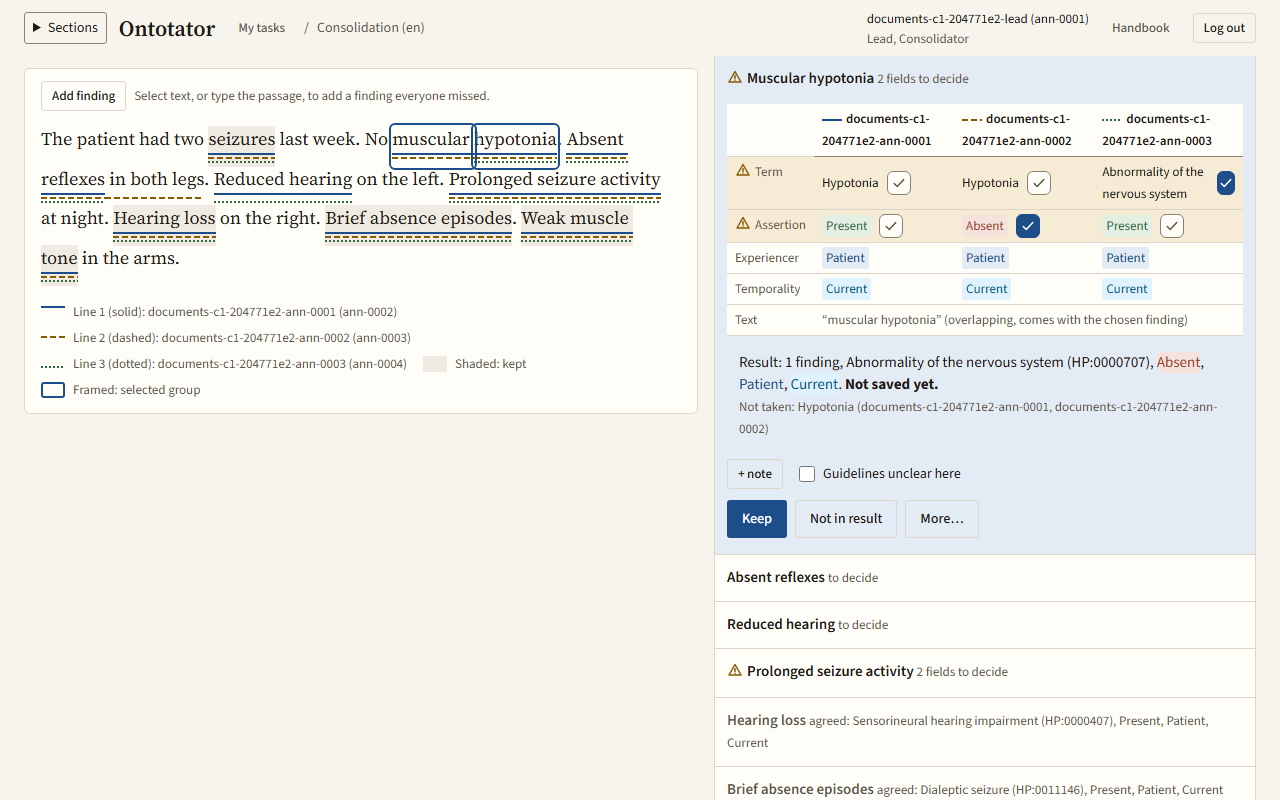
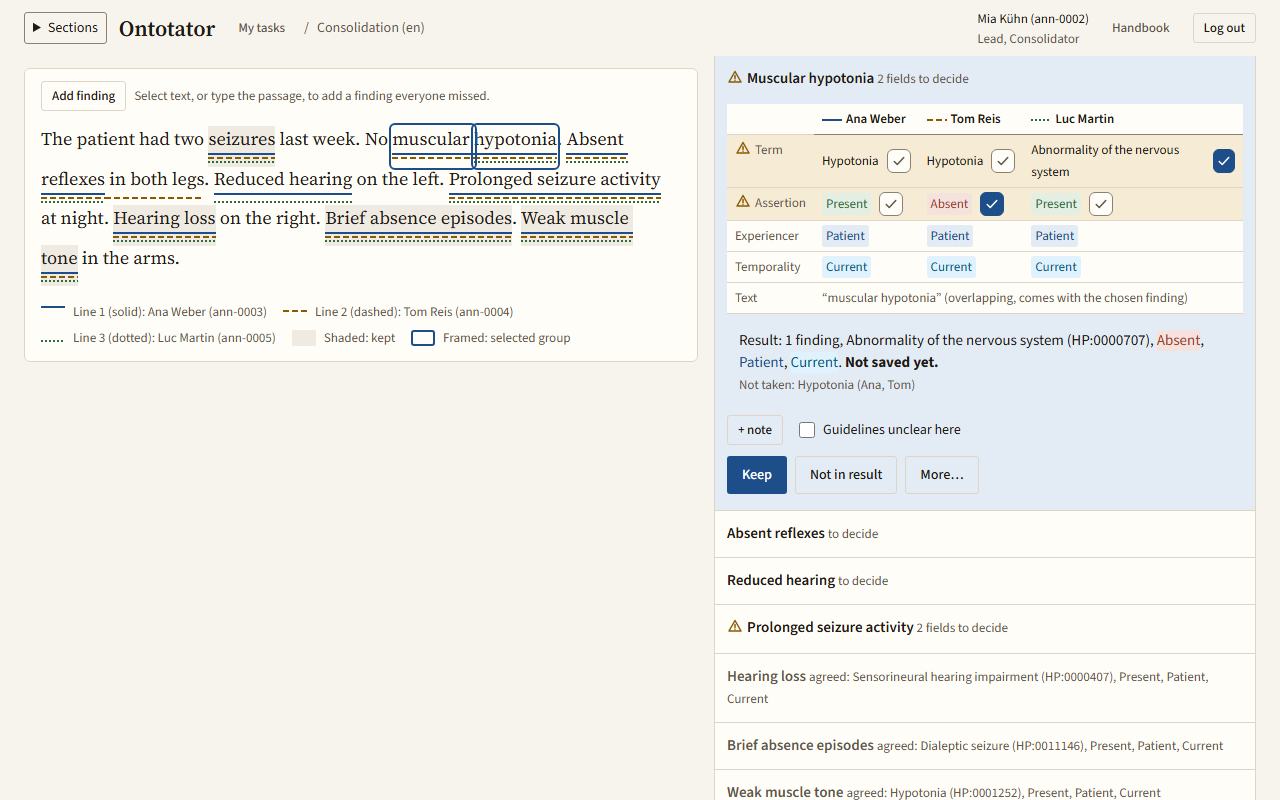
docs(handbook): correct steps after walking them in the app
Walk every chapter against the e2e fixture server and fix what differs:
the carried-findings toolbar names the round, Paused shows only while a
task is paused, the lead's consolidation message, Use as final saves at
once, guidelines sit in the editor's More menu, the submit dialog is named
after the text, and labels that are only accessible names (Members,
Summary, Annotation plan, the release check tables) are described by what
is visible. Handbook images of the consolidation and carried findings show
person names instead of scenario usernames (test-only display-name route).

diff --git a/frontend/browser/handbook-screenshots.spec.ts b/frontend/browser/handbook-screenshots.spec.ts
@@ -64,6 +64,12 @@ async function dismissToasts(page: Page): Promise<void> {
   await expect(page.locator(".ui-toast")).toHaveCount(0);
 }
 
+/** Gives a scenario user a person's name, so the images show names instead of usernames. */
+async function rename(page: Page, username: string, displayName: string): Promise<void> {
+  const response = await page.request.post("/__test_display_name__", { params: { username, display_name: displayName } });
+  expect(response.ok(), await response.text()).toBeTruthy();
+}
+
 const selectionBar = (page: Page) => page.getByRole("region", { name: "Selection", exact: true });
 
 test.describe("admin.md", () => {
@@ -203,6 +209,7 @@ test.describe("annotator.md", () => {
     const response = await page.request.post("/__test_carry_forward__", { params: { scenario: "t5" }, timeout: 120_000 });
     expect(response.ok(), await response.text()).toBeTruthy();
     const s = await response.json() as { username: string; assignment_id: number };
+    await rename(page, s.username, "Ana Weber");
     await loginExisting(page, s.username);
     await page.goto(`/#/tasks/${s.assignment_id}`);
     await expect(page.locator(".text-container")).toBeVisible();
@@ -224,7 +231,9 @@ test.describe("consolidator.md", () => {
   test("Decide a group, then finish the consolidation", async ({ page }) => {
     const response = await page.request.post("/__test_consolidation__", { params: { started: "true", people: "3" }, timeout: 120_000 });
     expect(response.ok(), await response.text()).toBeTruthy();
-    const s = await response.json() as { users: { lead: string }; assignment_id: number };
+    const s = await response.json() as { users: Record<"lead" | "ann-0001" | "ann-0002" | "ann-0003", string>; assignment_id: number };
+    const names = { lead: "Mia Kühn", "ann-0001": "Ana Weber", "ann-0002": "Tom Reis", "ann-0003": "Luc Martin" } as const;
+    for (const [who, name] of Object.entries(names)) await rename(page, s.users[who as keyof typeof names], name);
     await loginExisting(page, s.users.lead);
     await page.goto(`/#/tasks/${s.assignment_id}`);
     await expect(page.getByRole("heading", { level: 1, name: /^Consolidate / })).toBeVisible({ timeout: 30_000 });

diff --git a/tests/browser_server.py b/tests/browser_server.py
@@ -1465,6 +1465,18 @@ if __name__ == "__main__":
 
         app.router.routes.insert(0, app.router.routes.pop())
 
+        @app.post("/__test_display_name__")
+        def test_display_name(
+            username: str = Query(...), display_name: str = Query(...)
+        ) -> dict[str, str]:
+            """Rename a fixture user, so handbook images show people, not usernames."""
+            app.state.accounts.update_profile(
+                Actor.cli(), username, display_name=display_name
+            )
+            return {"display_name": display_name}
+
+        app.router.routes.insert(0, app.router.routes.pop())
+
         register_t1_import_route(app, grant_all)
 
         uvicorn.run(app, host="127.0.0.1", port=PORT, log_level="warning")

diff --git a/docs/handbook/annotator.md b/docs/handbook/annotator.md
@@ -12,7 +12,7 @@ What for: know where things are before you start.
 2. The toolbar shows the text name, its language and the mode:
    - **Annotate from scratch**: you see neither the tool's proposals nor other people's work.
    - **Annotate from proposals**: you see the tool's proposals, never other people's work.
-   - **Review carried findings** or **Check after text change**: findings were carried over from earlier work (see below).
+   - **Review carried findings** (or the round name, for example "Round 2, continued from Round 1") or **Check after text change**: findings were carried over from earlier work (see below).
 3. The save status next to it tells you whether your work is stored: **Saved**, **Saving...** or **Unsaved changes**. Work is saved automatically. If it reads **Offline** or an error, click **Retry**.
 4. The **More** menu holds **Work rounds**, **Report a text problem…**, the guidelines (for example "Guidelines v2") and **Keyboard shortcuts (?)**.
 5. To make the findings column wider or narrower, drag the divider between text and column (**Resize findings column**).
@@ -107,7 +107,7 @@ If a term has become obsolete, the panel says so. Change the term or delete the 
 
 What for: add severity, onset, pattern and similar details to a finding.
 
-1. Select the finding. In **Modifiers**, click **+ Add modifier…** and choose the modifier.
+1. Select the finding. In **Modifiers**, click **+ Add modifier…**, type into **Search modifier** and choose the modifier.
 2. To link the modifier to the words that state it, click **Link a text span** and mark the text.
 
 You can also start from the text:
@@ -158,7 +158,7 @@ Unresolved is a reviewer flag, not clinical uncertainty. For clinical uncertaint
 
 What for: check findings that were carried over from an earlier round, for example after a lead reopened your work or the text changed.
 
-1. The toolbar reads **Review carried findings**. The progress line counts checked findings.
+1. The toolbar names the round, for example "Round 2, continued from Round 1", or reads **Review carried findings** when the round has no name. The progress line counts checked findings.
 2. Click **Next unchecked** (or press `n`) to select the next finding marked **Check needed**.
 3. Read **What to check**: the text span, the values or the note. Carried values are not confirmed.
 4. To see the finding as it was, click **Show original evidence**.
@@ -187,7 +187,7 @@ What for: hand your finished work to the lead.
 
 1. Click **Next open item** to jump to things that still need attention.
 2. Click **Finish & submit text**. While items are open, the button shows how many.
-3. The dialog **Submit text** lists what is still open: **Carried findings to check**, **Findings that need attention**, **Findings after text correction**, **Proposals not decided**. Click **Go to** to fix an item.
+3. A dialog named after the text, for example "Submit CASE-1 en?", lists what is still open: **Carried findings to check**, **Findings that need attention**, **Findings after text correction**, **Proposals not decided**. Click **Go to** to fix an item.
 4. When nothing blocks, click **Submit text**. If only warnings are left, the button reads **Submit with** and the number of warnings.
 5. The next open task opens. To see what you sent, click **View result** in the message.
 
@@ -198,7 +198,7 @@ Submitting also says you checked the whole text for further findings. Afterwards
 What for: finish prefilled values and modifier warnings without leaving the dialog.
 
 1. The group **Values not chosen yet** lists findings with prefilled values.
-2. Click **Confirm as shown** on a row, or **Confirm all as shown** for all of them. Click **Go to** to change a value instead.
+2. Click **Confirm as shown** on a row, or, with more than one row, **Confirm all as shown**. Click **Go to** to change a value instead.
 3. The group **Modifier warnings** lists, for example, a modifier used as a finding or two severities on one finding. Click **Go to** to fix one.
 4. Click the submit button. Warnings you leave are submitted as they are.
 
@@ -257,7 +257,7 @@ What for: check a machine or human translation before it is annotated. Your prof
 1. Open the task. The **Source** is on the left, the **Translation** on the right.
 2. Read the automatic checks band at the top. Click **Details** to see which checks failed.
 3. Correct the translation directly in the right column. Use **Show changes** to see your edits and **Couple scrolling** to scroll both columns together. **Show matching paragraph** (Alt+M) jumps to the paired paragraph.
-4. To compare with another text, click **Compare with…**.
+4. To compare with another text, click the button that starts with **Compare with**, for example "Compare with … de". With several texts to compare, it opens a menu **Compare with…**.
 5. Under **Your review**, choose a **Decision**:
    - **Accepted unchanged**: the translation is right.
    - **Accepted with corrections**: you corrected it. Editing chooses this for you.

diff --git a/docs/handbook/consolidator.md b/docs/handbook/consolidator.md
@@ -46,7 +46,7 @@ On a smaller screen, use **Hide text** and **Show text** to make room. On a phon
 What for: decide a group by choosing, per field, the value that is right.
 
 1. Open a group. The table has one column per person. A robot icon marks findings from a tool proposal.
-2. The rows are **Term**, one row per value (for example the assertion), **Text**, **Modifiers** and **Note**. Rows where people disagree come first and are highlighted. Rows where all agree are marked "(all agree)".
+2. The rows are **Term**, one row per value (for example the assertion), **Text**, **Modifiers** and **Note**. Rows where people disagree come first and are highlighted; the other rows need no choice.
 3. In each highlighted row, click the ✓ next to the value you want.
 4. Read the result line below the table. It starts with "Result:" and lists what is still not chosen, for example "text not chosen yet". **Not taken:** lists the values you left out.
 5. Optional: click **+ note** to write a **Note for the lead**, and tick **Guidelines unclear here** if the guidelines did not settle the case.
@@ -77,7 +77,7 @@ What for: when someone used a modifier term (such as "Severe") as a finding of i
 
 What for: keep a finding with a value or term that nobody chose.
 
-1. Open the group and click **More…**.
+1. Open the group and click **More…**. It is offered when no row is in conflict or when the terms differ.
 2. To change values: choose **Edit values…**, set each value and the modifiers, then click **Keep with these values**. This is offered only when no row is in conflict.
 3. To use a different term: choose **Other term…**, search and pick a term. If there was no term conflict, it is saved at once; otherwise choose the remaining highlighted rows with ✓ and click **Keep**.
 
@@ -100,7 +100,7 @@ What for: correct a decision you made.
 1. Right after a decision: click **Undo** in the group row, or press Ctrl+Z (Cmd+Z on a Mac).
 2. Later: open the decided group and click **Reopen**. Decide it again.
 3. To change only the note or the flag of a decided group, use **Edit note** and **Save note**, or the **Guidelines unclear here** box. These save at once.
-4. To start over: open **More…** in the header and choose **Reopen all decisions…**, then **Reopen all**. The message offers **Undo**.
+4. To start over: open **More…** in the header (shown once you decided a group) and choose **Reopen all decisions…**, then **Reopen all**. The message offers **Undo**.
 
 If you changed a group in the full editor, reopening it drops that edit. You are asked to confirm.
 
@@ -113,7 +113,7 @@ What for: hand the merged result to the lead.
 3. The dialog **Submit consolidation?** shows how many groups and findings the result has, and how many are not in the result.
 4. If there are warnings (values filled in by default, a modifier used as a finding, two severities), they are listed under **Check before you submit**. Click **Back** to fix them, or submit anyway: the button then reads **Submit with** and the number of warnings.
 5. Click **Submit**.
-6. The screen confirms: "Consolidation submitted. The lead then accepts the result." Open your next task or click **Back to my tasks**.
+6. The screen confirms: "Consolidation submitted. The lead then accepts the result." If you are the lead yourself, it reads "Consolidation submitted. Accept the result in Documents." Open your next task or click **Back to my tasks**.
 
 While groups are open, **Submit consolidation** stays inactive and says how many groups are left.
 

diff --git a/docs/handbook/lead.md b/docs/handbook/lead.md
@@ -79,8 +79,8 @@ What for: move to a newer ontology release after work was submitted. Drafts are 
 2. Under **Move to another release** choose the new release.
 3. Click **Check changes**.
 4. Read the panel **Check before moving**:
-   - **Rewritten draft terms** lists terms that will be replaced by their successor.
-   - **Draft terms to change by hand** lists obsolete terms. Their annotators must change them before submitting.
+   - The first table (**Becomes**, **Why**) lists draft terms that will be replaced by their successor.
+   - The second table (**Status**, **Suggestions**) lists draft terms that are obsolete or missing in the new release. Their annotators must change them before submitting.
 5. Click **Move to this release**, or **Cancel**. The page says **Ontology release changed.**
 
 ![The check before moving to another release, with rewritten draft terms and terms to change by hand](images/lead-move-release-check.png)
@@ -441,7 +441,7 @@ What for: set the work plan for a selection.
 What for: switch one text between from proposals, from scratch and not annotated.
 
 1. Open the text card and click **Annotation**.
-2. In **Annotation plan** choose **From proposals**, **From scratch** or **Off**. It saves at once.
+2. Under **Annotation** choose **From proposals**, **From scratch** or **Off**. It saves at once.
 
 Once someone started or submitted work in one mode, the mode is fixed.
 
@@ -451,8 +451,8 @@ What for: give translation reviews or annotations to people.
 
 1. Select the texts, then click the assign button in the selection bar, for example **Assign annotation…**.
 2. Check the **Task**, for example a translation review in one language.
-3. Under **Members** pick the reviewer, or tick everyone who should annotate. Each ticked person gets every selected text.
-4. Read the **Summary**.
+3. In the table of people (**Person**, **Reads**, **Open tasks**) pick the reviewer, or tick everyone who should annotate. Each ticked person gets every selected text.
+4. Read the summary below the table, for example "Ana Weber gets 3 translation reviews (de)."
 5. Click the assign button, for example *Assign 20*.
 
 ![The assign dialog with members, their languages and open tasks](images/lead-assign.png)
@@ -533,7 +533,7 @@ What for: choose the final result of a text.
 1. On **Documents**, tab **Needs your decision**, click **Accept result…** or **Compare results…** in the row. The card opens at **Final result**.
 2. With one submission or a submitted consolidation, check it and click **Accept result**.
 3. If all annotations agree, the card says so. Click **Accept result**.
-4. If they differ, the card shows how many findings match. Open a submission with **Open in editor** and click **Use as final** in its row. Or start a consolidation (next task).
+4. If they differ, the card shows how many findings match. Open a submission with **Open in editor** to read it, then click **Use as final** in its row. This saves at once, without a confirmation. Or start a consolidation (next task).
 5. After saving, the card moves on to the next text that needs a decision.
 
 ![The final result block comparing two submissions](images/lead-compare-results.png)

diff --git a/docs/handbook/getting-started.md b/docs/handbook/getting-started.md
@@ -68,7 +68,7 @@ What for: work in another project.
 What for: find the texts you have to work on.
 
 1. Click **My tasks** in the navigation.
-2. Choose a tab: **To do**, **Paused**, **Submitted** or **All**.
+2. Choose a tab: **To do**, **Submitted** or **All**. The tab **Paused** appears only while one of your tasks is paused.
 3. If you work in several projects, choose a project in **Filter my tasks by project**, or **All my tasks**.
 
 ![My tasks with the status tabs and a table of tasks, each with its Text, Task, Status and an action button](images/getting-started-my-tasks.png)
@@ -105,7 +105,7 @@ If you see **Task not found or not yours**, the task was withdrawn or is assigne
 What for: check the annotation rules of the project.
 
 1. Open a task.
-2. Click the guidelines button in the toolbar, for example `Guidelines v2`. A **New** badge means the guidelines changed since you last read them.
+2. Open **More** in the toolbar and choose the guidelines, for example `Guidelines v2`. `(new)` after it means the guidelines changed since you last read them. In a translation review or consolidation, the guidelines are a button in the header instead, with a **New** badge.
 3. The guidelines open beside the text. Click **All versions** to see older versions, or **Close** to hide them.
 
 The first time you open a task in a project with guidelines, a notice asks you to read them. Click the read button in the notice, for example `Read guidelines v2`.
